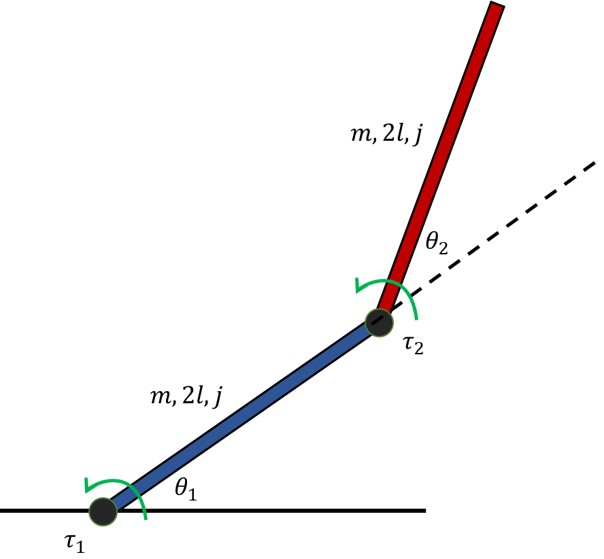
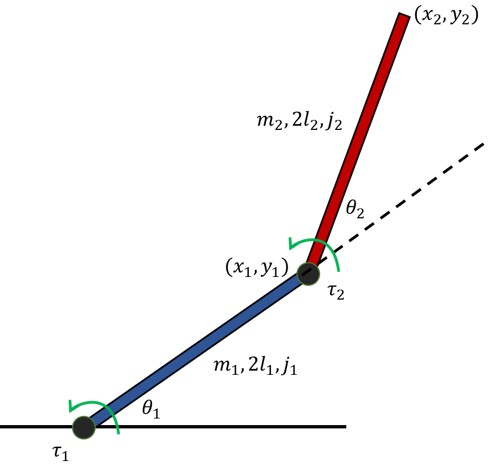
single, double modelling part

Changed region(s): [[0.0, 0.0, 0.9776, 0.9313], [0.8248, 0.2704, 1.0, 0.4206], [0.1527, 0.9313, 0.1833, 0.9614]]

diff --git a/README.md b/README.md
@@ -20,7 +20,7 @@ Add LaTeX by using https://www.codecogs.com/latex/eqneditor.php
 
 ## Overview
 
-The purpose of this project is to test how optimal control methods can work in nonlinear systems.
+The purpose of this project is to test how optimal control methods can work in nonlinear systems. Suppose we have a multi-arm system, and we want to control the 
 
 
 
@@ -36,7 +36,7 @@ Assume each arm has a mass of **m**, length of **2L**, and an inertia of **j** w
 
 Since only torque, gravity of arm are considered in the motion equation, the equation of motion for this single-input-single-output(SISO) system is quite simple:
 
-<a href="https://www.codecogs.com/eqnedit.php?latex=\ddot{\theta_1}=\frac{3}{4ml^2}(\tau&space;-&space;mg\cos(\theta_1))" target="_blank"><img src="https://latex.codecogs.com/gif.latex?\ddot{\theta_1}=\frac{3}{4ml^2}(\tau&space;-&space;mg\cos(\theta_1))" title="\ddot{\theta_1}=\frac{3}{4ml^2}(\tau - mg\cos(\theta_1))" /></a>
+<a href="https://www.codecogs.com/eqnedit.php?latex=\ddot{\theta_1}=\frac{3}{4ml^2}(\tau&space;-&space;mg\cos{\theta_1})" target="_blank"><img src="https://latex.codecogs.com/gif.latex?\ddot{\theta_1}=\frac{3}{4ml^2}(\tau&space;-&space;mg\cos{\theta_1})" title="\ddot{\theta_1}=\frac{3}{4ml^2}(\tau - mg\cos{\theta_1})" /></a>
 
 ### Two-arm system
 
@@ -44,7 +44,56 @@ Things becomes more difficult when more arms are introduced. The equation of mot
 
 ![double-arm](figures/double-arm.jpg)
 
+As seen in the figure, we define the end effector of first and second arm as (x1, y1) and (x2,y2). Therefore, we can get:
+<a href="https://www.codecogs.com/eqnedit.php?latex=x_1=2l_1\cos{\theta_1},&space;y_1=2l_1\sin{\theta_1}" target="_blank"><img src="https://latex.codecogs.com/gif.latex?x_1=2l_1\cos{\theta_1},&space;y_1=2l_1\sin{\theta_1}" title="x_1=2l_1\cos{\theta_1}, y_1=2l_1\sin{\theta_1}" /></a>
 
+<a href="https://www.codecogs.com/eqnedit.php?latex=x_2=2l_1\cos{\theta_1}&plus;2l_2\cos(\theta_1&plus;\theta_2),&space;y_2=2l_1\sin{\theta_1}&plus;2l_2\sin(\theta_1&plus;\theta_2)" target="_blank"><img src="https://latex.codecogs.com/gif.latex?x_2=2l_1\cos{\theta_1}&plus;2l_2\cos(\theta_1&plus;\theta_2),&space;y_2=2l_1\sin{\theta_1}&plus;2l_2\sin(\theta_1&plus;\theta_2)" title="x_2=2l_1\cos{\theta_1}+2l_2\cos(\theta_1+\theta_2), y_2=2l_1\sin{\theta_1}+2l_2\sin(\theta_1+\theta_2)" /></a>
+
+which can be used to calculate corresponding &theta; based on x using inverse kinematics.
+
+For the equation of motion, we have kinetic energy of system:
+
+<a href="https://www.codecogs.com/eqnedit.php?latex=KE=1/2&space;m_1&space;V_1^2&space;&plus;&space;1/2&space;j_1&space;\omega_1^2&space;&plus;&space;1/2&space;m_2&space;V_2^2&space;&plus;&space;1/2&space;j_2&space;\omega_2^2" target="_blank"><img src="https://latex.codecogs.com/gif.latex?KE=1/2&space;m_1&space;V_1^2&space;&plus;&space;1/2&space;j_1&space;\omega_1^2&space;&plus;&space;1/2&space;m_2&space;V_2^2&space;&plus;&space;1/2&space;j_2&space;\omega_2^2" title="KE=1/2 m_1 V_1^2 + 1/2 j_1 \omega_1^2 + 1/2 m_2 V_2^2 + 1/2 j_2 \omega_2^2" /></a>
+
+where
+
+<a href="https://www.codecogs.com/eqnedit.php?latex=V_1&space;=&space;l_1\dot{\theta_1},&space;\omega_1=\dot{\theta_1}" target="_blank"><img src="https://latex.codecogs.com/gif.latex?V_1&space;=&space;l_1\dot{\theta_1},&space;\omega_1=\dot{\theta_1}" title="V_1 = l_1\dot{\theta_1}, \omega_1=\dot{\theta_1}" /></a>
+
+<a href="https://www.codecogs.com/eqnedit.php?latex=V_{2x}=-2l_1\dot{\theta_1}\sin\theta_1-l_2(\dot{\theta_1}&plus;\dot{\theta_2})\sin(\theta_1&plus;\theta_2)" target="_blank"><img src="https://latex.codecogs.com/gif.latex?V_{2x}=-2l_1\dot{\theta_1}\sin\theta_1-l_2(\dot{\theta_1}&plus;\dot{\theta_2})\sin(\theta_1&plus;\theta_2)" title="V_{2x}=-2l_1\dot{\theta_1}\sin\theta_1-l_2(\dot{\theta_1}+\dot{\theta_2})\sin(\theta_1+\theta_2)" /></a>
+
+<a href="https://www.codecogs.com/eqnedit.php?latex=V_{2y}=(2l_1\dot{\theta_1}\cos\theta_1&plus;l_2(\dot{\theta_1}&plus;\dot{\theta_2})\cos(\theta_1&plus;\theta_2))\mathbf{j}" target="_blank"><img src="https://latex.codecogs.com/gif.latex?V_{2y}=(2l_1\dot{\theta_1}\cos\theta_1&plus;l_2(\dot{\theta_1}&plus;\dot{\theta_2})\cos(\theta_1&plus;\theta_2))\mathbf{j}" title="V_{2y}=(2l_1\dot{\theta_1}\cos\theta_1+l_2(\dot{\theta_1}+\dot{\theta_2})\cos(\theta_1+\theta_2))\mathbf{j}" /></a>
+
+<a href="https://www.codecogs.com/eqnedit.php?latex=\omega_2=\dot{\theta_1}&plus;\dot{\theta_2}" target="_blank"><img src="https://latex.codecogs.com/gif.latex?\omega_2=\dot{\theta_1}&plus;\dot{\theta_2}" title="\omega_2=\dot{\theta_1}+\dot{\theta_2}" /></a>
+
+On the other hand, we have potential energy of system
+
+<a href="https://www.codecogs.com/eqnedit.php?latex=PE=m_1gl_1\sin\theta_1&plus;m_2g(2l_1\sin\theta_1&plus;l_2\sin(\theta_1&plus;\theta_2))" target="_blank"><img src="https://latex.codecogs.com/gif.latex?PE=m_1gl_1\sin\theta_1&plus;m_2g(2l_1\sin\theta_1&plus;l_2\sin(\theta_1&plus;\theta_2))" title="PE=m_1gl_1\sin\theta_1+m_2g(2l_1\sin\theta_1+l_2\sin(\theta_1+\theta_2))" /></a>
+
+We get the Lagrangian L=KE-PE as:
+
+<a href="https://www.codecogs.com/eqnedit.php?latex=L=\frac{1}{2}m_1l_1^2\dot{\theta_1}^2&plus;\frac{1}{2}j_1\dot{\theta_1}^2\\&space;&plus;\frac{1}{2}m_2(4l_1^2\dot{\theta_1}^2&plus;l_2^2(\dot{\theta_1}^2&plus;\dot{\theta_2}^2)&plus;4l_1l_2\cos\theta_2\dot{\theta_1}(\dot{\theta_1}&plus;\dot{\theta_2}))\\&space;&plus;\frac{1}{2}j_2(\dot{\theta_1}&plus;\dot{\theta_2})^2-m_1gl_1\sin\theta_1-2m_2gl_1\sin\theta_1-m_2gl_2\sin(\theta_1&plus;\theta_2))" target="_blank"><img src="https://latex.codecogs.com/gif.latex?L=\frac{1}{2}m_1l_1^2\dot{\theta_1}^2&plus;\frac{1}{2}j_1\dot{\theta_1}^2\\&space;&plus;\frac{1}{2}m_2(4l_1^2\dot{\theta_1}^2&plus;l_2^2(\dot{\theta_1}^2&plus;\dot{\theta_2}^2)&plus;4l_1l_2\cos\theta_2\dot{\theta_1}(\dot{\theta_1}&plus;\dot{\theta_2}))\\&space;&plus;\frac{1}{2}j_2(\dot{\theta_1}&plus;\dot{\theta_2})^2-m_1gl_1\sin\theta_1-2m_2gl_1\sin\theta_1-m_2gl_2\sin(\theta_1&plus;\theta_2))" title="L=\frac{1}{2}m_1l_1^2\dot{\theta_1}^2+\frac{1}{2}j_1\dot{\theta_1}^2\\ +\frac{1}{2}m_2(4l_1^2\dot{\theta_1}^2+l_2^2(\dot{\theta_1}^2+\dot{\theta_2}^2)+4l_1l_2\cos\theta_2\dot{\theta_1}(\dot{\theta_1}+\dot{\theta_2}))\\ +\frac{1}{2}j_2(\dot{\theta_1}+\dot{\theta_2})^2-m_1gl_1\sin\theta_1-2m_2gl_1\sin\theta_1-m_2gl_2\sin(\theta_1+\theta_2))" /></a>
+
+Using Lagrangian mechanics, we have:
+
+<a href="https://www.codecogs.com/eqnedit.php?latex=$$\frac{\mathrm{d}}{\mathrm{dt}}(\frac{\partial&space;L}{\partial&space;\dot{\theta_1}})-\frac{\partial&space;L}{\partial&space;\theta_1}=\tau_1$$" target="_blank"><img src="https://latex.codecogs.com/gif.latex?$$\frac{\mathrm{d}}{\mathrm{dt}}(\frac{\partial&space;L}{\partial&space;\dot{\theta_1}})-\frac{\partial&space;L}{\partial&space;\theta_1}=\tau_1$$" title="$$\frac{\mathrm{d}}{\mathrm{dt}}(\frac{\partial L}{\partial \dot{\theta_1}})-\frac{\partial L}{\partial \theta_1}=\tau_1$$" /></a>
+
+<a href="https://www.codecogs.com/eqnedit.php?latex=$$\frac{\mathrm{d}}{\mathrm{dt}}(\frac{\partial&space;L}{\partial&space;\dot{\theta_2}})-\frac{\partial&space;L}{\partial&space;\theta_2}=\tau_2$$" target="_blank"><img src="https://latex.codecogs.com/gif.latex?$$\frac{\mathrm{d}}{\mathrm{dt}}(\frac{\partial&space;L}{\partial&space;\dot{\theta_2}})-\frac{\partial&space;L}{\partial&space;\theta_2}=\tau_2$$" title="$$\frac{\mathrm{d}}{\mathrm{dt}}(\frac{\partial L}{\partial \dot{\theta_2}})-\frac{\partial L}{\partial \theta_2}=\tau_2$$" /></a>
+
+Simplify this equation, we can get the form of this equation of motion to be:
+
+<a href="https://www.codecogs.com/eqnedit.php?latex=\underbar&space;u=&space;\begin{bmatrix}&space;\tau_1\\&space;\tau_2&space;\end{bmatrix}&space;=&space;\begin{bmatrix}&space;H_{11}&space;&&space;H_{12}&space;\\&space;H_{21}&space;&&space;H_{22}&space;\end{bmatrix}&space;\begin{bmatrix}&space;\ddot{\theta_1}\\&space;\ddot{\theta_2}&space;\end{bmatrix}&space;&plus;&space;\begin{bmatrix}&space;h\dot{\theta_2}^2&plus;2h\dot{\theta_1}\dot{\theta_2}\\&space;h\dot{\theta_1}\dot{\theta_2}&space;\end{bmatrix}&space;&plus;&space;\begin{bmatrix}&space;G_1\\&space;G_2&space;\end{bmatrix}" target="_blank"><img src="https://latex.codecogs.com/gif.latex?\underbar&space;u=&space;\begin{bmatrix}&space;\tau_1\\&space;\tau_2&space;\end{bmatrix}&space;=&space;\begin{bmatrix}&space;H_{11}&space;&&space;H_{12}&space;\\&space;H_{21}&space;&&space;H_{22}&space;\end{bmatrix}&space;\begin{bmatrix}&space;\ddot{\theta_1}\\&space;\ddot{\theta_2}&space;\end{bmatrix}&space;&plus;&space;\begin{bmatrix}&space;h\dot{\theta_2}^2&plus;2h\dot{\theta_1}\dot{\theta_2}\\&space;h\dot{\theta_1}\dot{\theta_2}&space;\end{bmatrix}&space;&plus;&space;\begin{bmatrix}&space;G_1\\&space;G_2&space;\end{bmatrix}" title="\underbar u= \begin{bmatrix} \tau_1\\ \tau_2 \end{bmatrix} = \begin{bmatrix} H_{11} & H_{12} \\ H_{21} & H_{22} \end{bmatrix} \begin{bmatrix} \ddot{\theta_1}\\ \ddot{\theta_2} \end{bmatrix} + \begin{bmatrix} h\dot{\theta_2}^2+2h\dot{\theta_1}\dot{\theta_2}\\ h\dot{\theta_1}\dot{\theta_2} \end{bmatrix} + \begin{bmatrix} G_1\\ G_2 \end{bmatrix}" /></a>
+
+where
+
+<a href="https://www.codecogs.com/eqnedit.php?latex=H_{11}=m_1l_1^2&plus;j_1&plus;m_2(4l_1^2&plus;l_2^2&plus;4l_1l_2\cos\theta_2)&plus;j_2" target="_blank"><img src="https://latex.codecogs.com/gif.latex?H_{11}=m_1l_1^2&plus;j_1&plus;m_2(4l_1^2&plus;l_2^2&plus;4l_1l_2\cos\theta_2)&plus;j_2" title="H_{11}=m_1l_1^2+j_1+m_2(4l_1^2+l_2^2+4l_1l_2\cos\theta_2)+j_2" /></a>
+
+<a href="https://www.codecogs.com/eqnedit.php?latex=H_{12}=H_{21}=m_2(l_2^2&plus;2l_1l_2\cos\theta_2)&plus;j_2" target="_blank"><img src="https://latex.codecogs.com/gif.latex?H_{12}=H_{21}=m_2(l_2^2&plus;2l_1l_2\cos\theta_2)&plus;j_2" title="H_{12}=H_{21}=m_2(l_2^2+2l_1l_2\cos\theta_2)+j_2" /></a>
+
+<a href="https://www.codecogs.com/eqnedit.php?latex=H_{22}=m_2l_2^2&plus;j_2" target="_blank"><img src="https://latex.codecogs.com/gif.latex?H_{22}=m_2l_2^2&plus;j_2" title="H_{22}=m_2l_2^2+j_2" /></a>
+
+<a href="https://www.codecogs.com/eqnedit.php?latex=h=-2m_2l_1l_2\sin\theta_2" target="_blank"><img src="https://latex.codecogs.com/gif.latex?h=-2m_2l_1l_2\sin\theta_2" title="h=-2m_2l_1l_2\sin\theta_2" /></a>
+
+This gives us the dynamic model(also known as dynamic constraint in controller) of the two arm linkage system. We can see the increase of complexity with number of arms in the equation.
 
 ### General method of for multi-arm system
 
